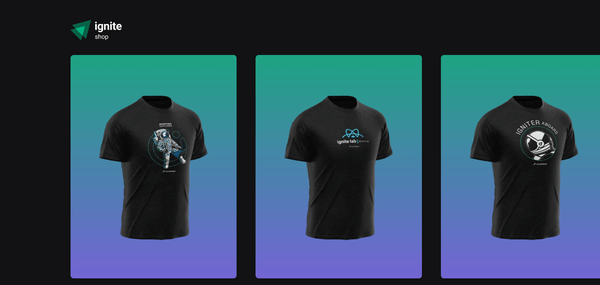
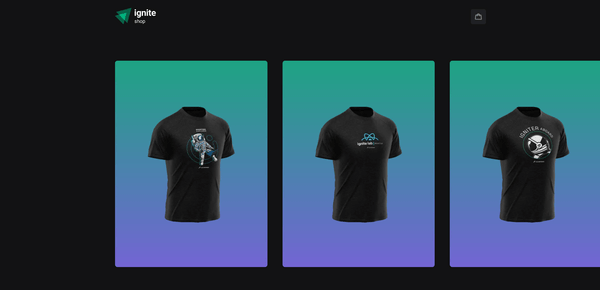
Atualizado o README da aplicação

diff --git a/README.md b/README.md
@@ -2,13 +2,16 @@
 
 ## Introdução
 
-Ignite Shop é uma aplicação WEB de uma loja de camisetas. Possui uma integração com a plataforma de pagamentos da Stripe. No site do ignite Shop o cliente seleciona uma camiseta da lista, efetua a compra na página de detalhes do produto, preenche os dados na plataforma de pagamento da Stripe sendo redirecionado para a página de sucesso da aplicação caso o processamento seja confirmado.
+Ignite Shop é uma aplicação WEB de uma loja de camisetas. Possui uma integração com a plataforma de pagamentos da Stripe. No site do ignite Shop o cliente seleciona as camisetas disponíveis na lista adicionando-as no carrinho, confere os itens do carrinho e efetua a compra sendo redirecionado para a plataforma de pagamento da Stripe. Na plataforma do stripe o cliente preenche os dados e é  redirecionado para a página de sucesso da aplicação caso o processamento seja confirmado.
 
 É um projeto desenvolvido no curso de Reactjs módulo 4 ministrado pela Rocketseat abordando os conceitos sobre o framework Nextjs e a bibliteca de estilização Stitches.
 
 <div align="center" >
   <img alt="ignite shop home" src="./assets/shop-home.png" width="300px" />
   <img alt="ignite shop produto" src="./assets/shop-product.png" width="300px" />
+</div>
+<div align="center" >  
+  <img alt="ignite shop produto" src="./assets/shop-cart.png" width="300px" />
   <img alt="ignite shop sucesso" src="./assets/shop-success.png" width="300px" />
 </div>
 
@@ -71,4 +74,3 @@ npm run dev
 ```
 
 Abrir a aplicação no navegador no endereço http://localhost:3000
-
